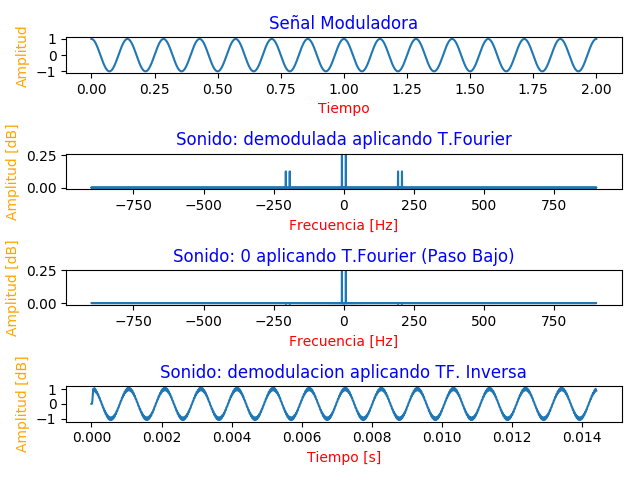
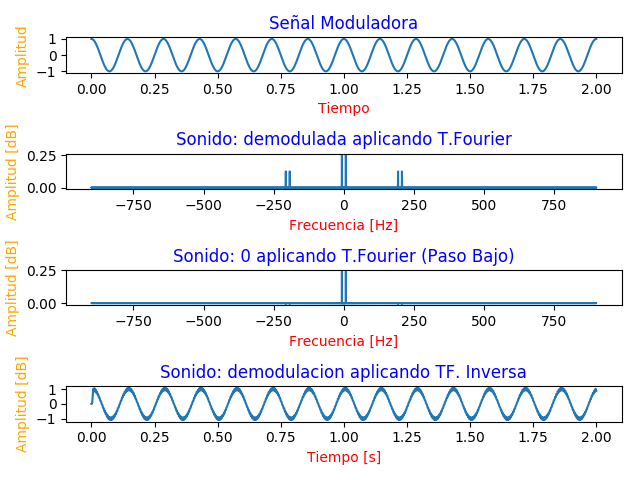
adding images modulation am (cos)

diff --git a/Models/graphic.py b/Models/graphic.py
@@ -289,7 +289,7 @@ class Graphic:
         plt.subplot(413)
         newdata, fft = graphic.lowpassFilteredGraphic(audio, audio.filter.low_cutoff, audio.filter.order)
         plt.subplot(414)
-        graphic.inverseGraphic(modulation.freqX, 2*fft, "demodulacion", audio.filter.low_cutoff, audio.filter.order)
+        graphic.inverseGraphic(modulation.freqSampling, 2*fft, "demodulacion", audio.filter.low_cutoff, audio.filter.order)
         plt.tight_layout()
         plt.savefig(os.getcwd() + "/Salida/" + "Grafico_Frecuencia Demodulacion AM" + title +".png")
         plt.show()
@@ -300,7 +300,7 @@ class Graphic:
         newdata, fft = graphic.lowpassFilteredGraphic(audio, audio.filter.low_cutoff, audio.filter.order)
         plt.savefig(os.getcwd() + "/Salida/" + "Grafico_Filtro paso bajo"  + title + "_" + str(audio.filter.low_cutoff) + "_" + str(audio.filter.order) + ".png")
         plt.show()
-        graphic.inverseGraphic(modulation.freqX, 2 * fft, "demodulacion", audio.filter.low_cutoff, audio.filter.order)
+        graphic.inverseGraphic(modulation.freqSampling, 2 * fft, "demodulacion", audio.filter.low_cutoff, audio.filter.order)
         plt.savefig(os.getcwd() + "/Salida/" + "Grafico_audio original_"  + title + "_" + str(audio.filter.low_cutoff) + "_" + str(audio.filter.order) + ".png")
         plt.show()
 
